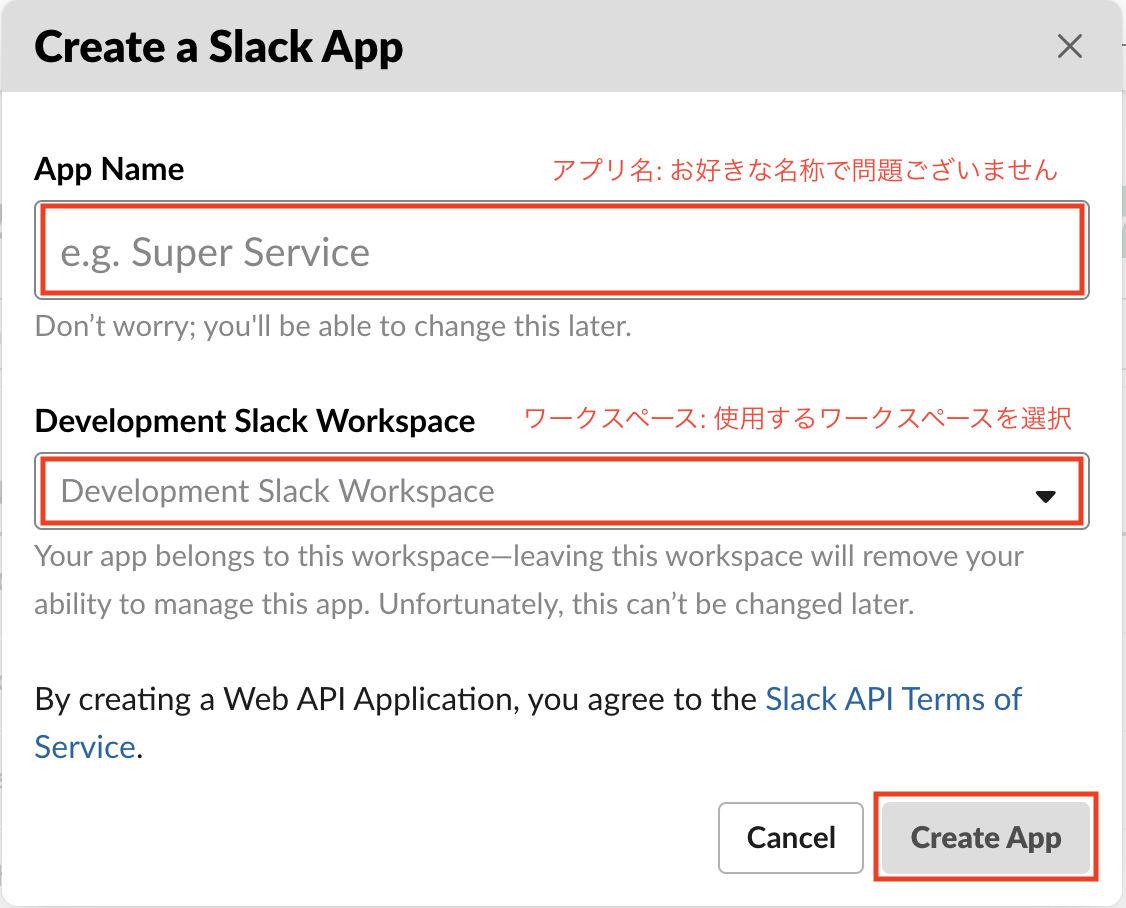
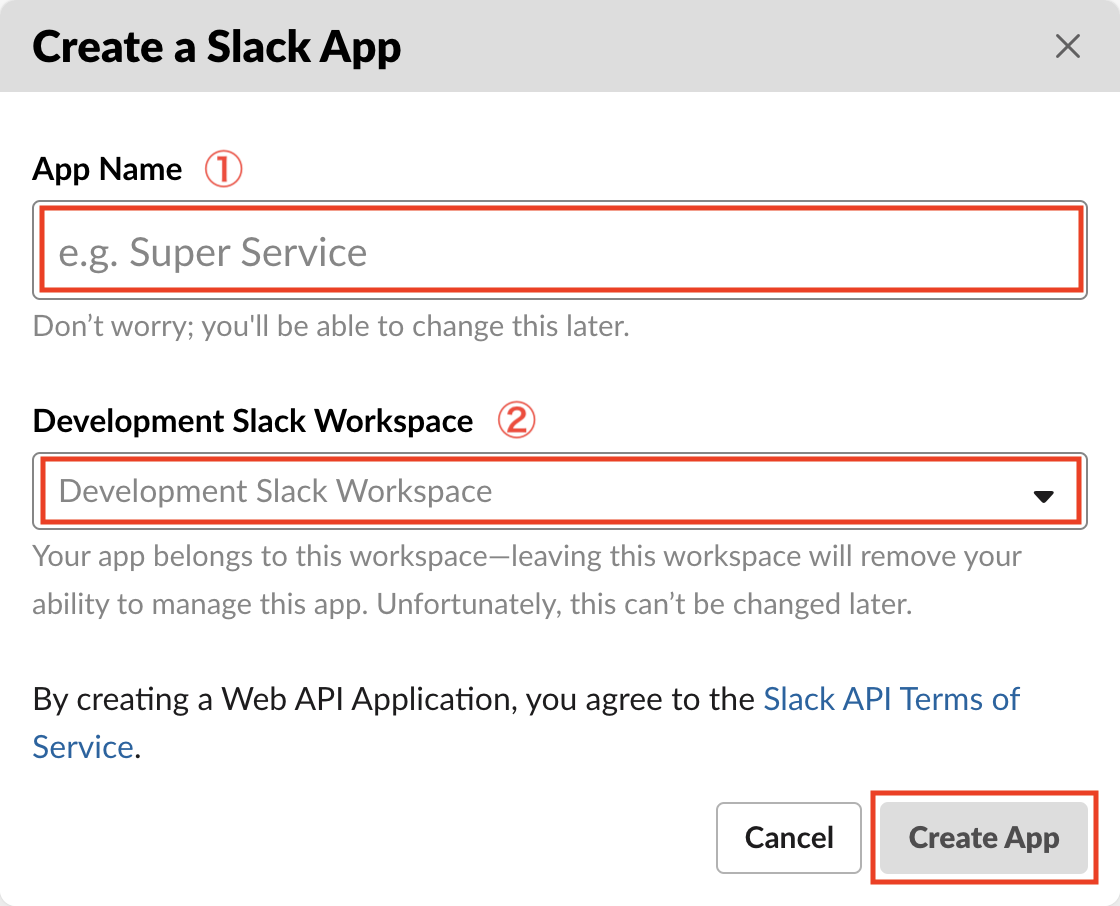
FB

diff --git a/docs/ja/admin-guide/management-cookbook/slack-bot.md b/docs/ja/admin-guide/management-cookbook/slack-bot.md
@@ -1,16 +1,18 @@
 # Slack連携
 
 ### GROWI Bot 作成方法
+
 GROWI Botを導入することで、Slack上で「ページ検索」や「検索結果の共有」が可能になります。
 Slackのワークスペースに GROWI Bot を導入するには、Slackアプリを新規作成する必要があります。  
 手順は以下の通りです。
 
 #### Slackアプリの作成
-1.  Slack API の[アプリページ](https://api.slack.com/apps)に移動し、「Create New App」をクリックします。
+
+1. Slack API の[アプリページ](https://api.slack.com/apps)に移動し、「Create New App」をクリックします。
 
 ![slack-custom-bot1](./images/slack-custom-bot1.png)
 
-2. 「Create a Slack App」の「App Name」にはアプリの名前を、「Development Slack Workspace」には GROWI botを追加したいワークスペースを選択します。
+2. 「Create a Slack App」の ①「App Name」にはアプリの名前を、②「Development Slack Workspace」には GROWI botを追加したいワークスペースを選択します。
 
 3. 「Creat App」をクリックします。
 
